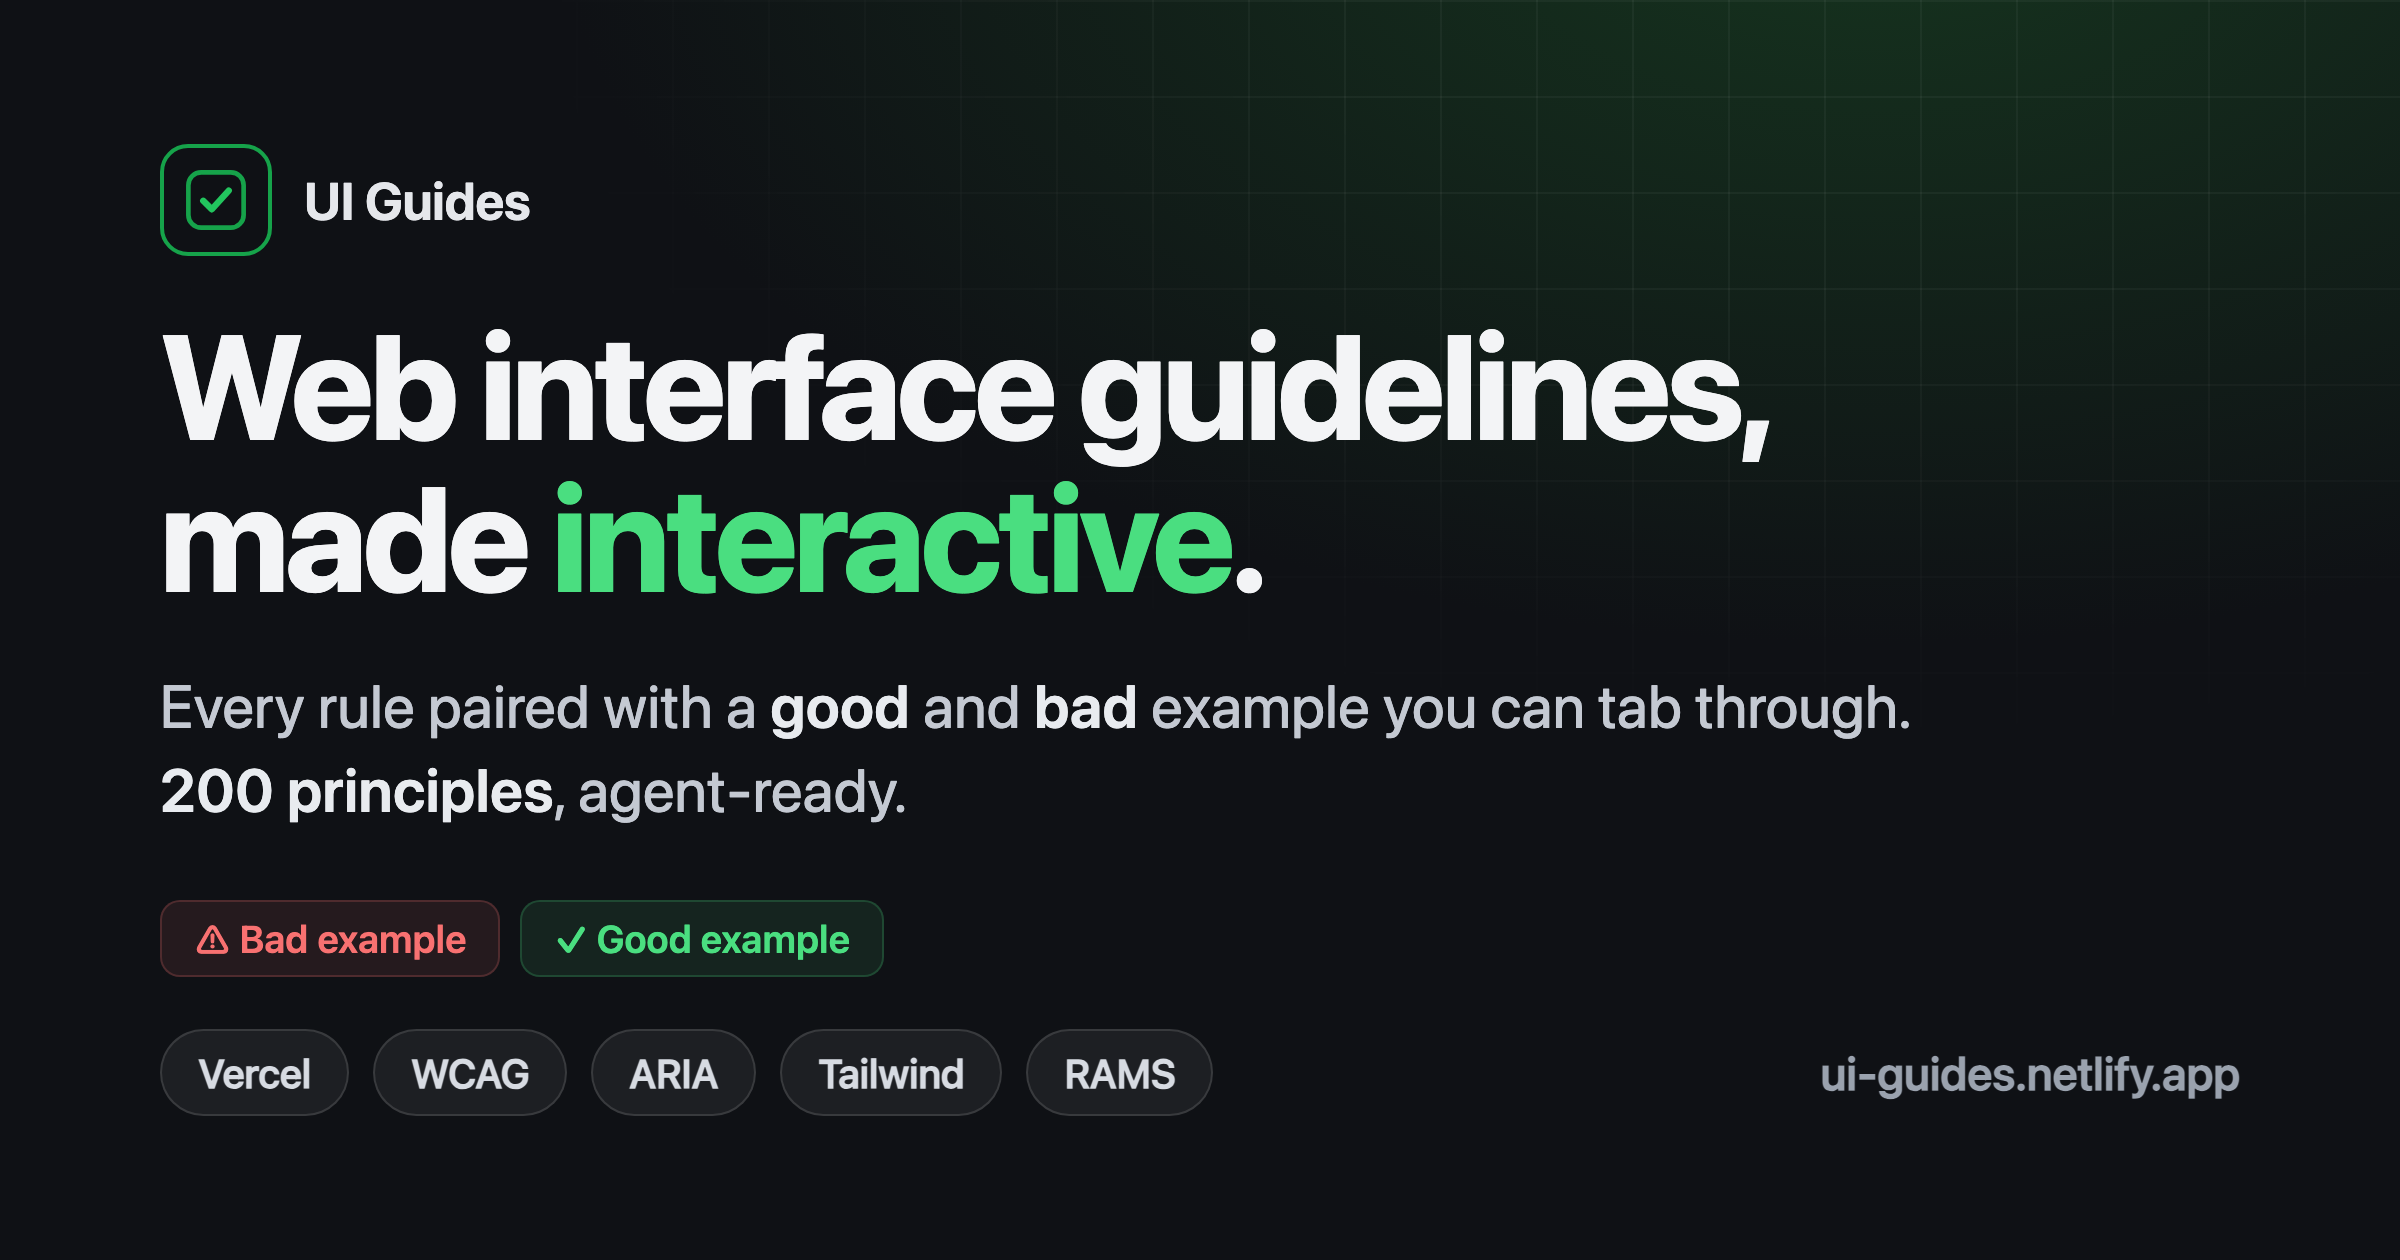
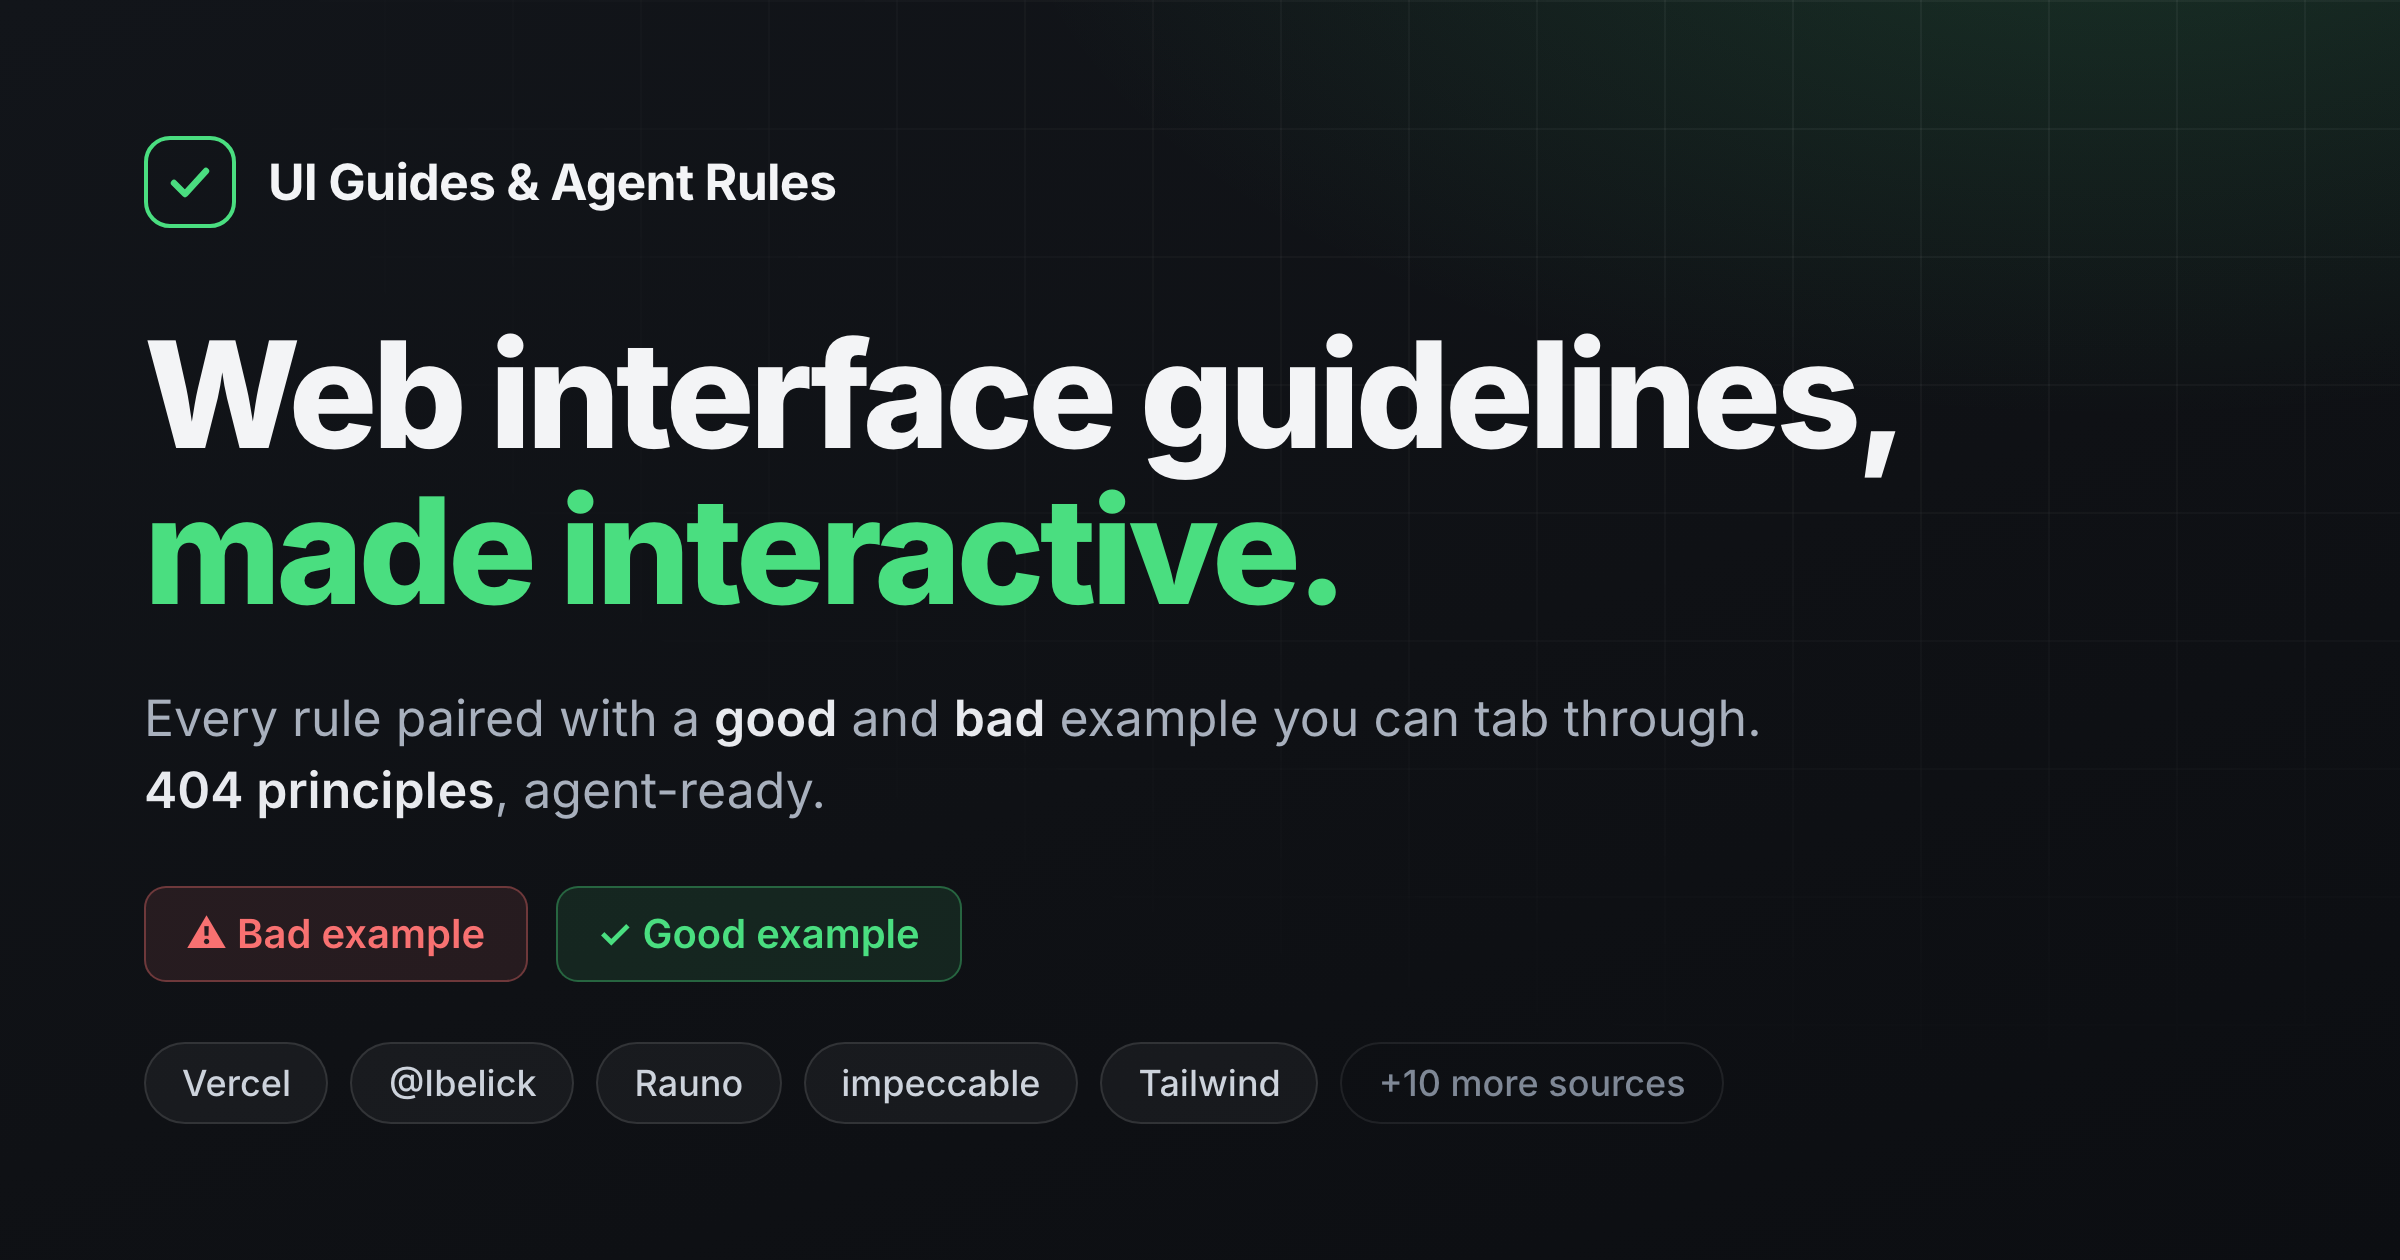
docs(readme): lead with a real demo video, generate the OG card from data
The README's only image was the OG card — a static poster for a project
whose whole claim is "examples you can operate". Replace it with a
recorded, keyboard-only walkthrough of two principles:

  - Keyboard Works Everywhere: focus leaps over the bad card entirely,
    because its menu items are divs with nothing to land on.
  - Clear Focus: both cards take focus, but only the good one shows a ring.

Encoded as H.264 + VP9 with a poster, served from public/media/ so the
host sends a real video content-type (raw.githubusercontent.com sends
octet-stream and will not play).

The OG card was hand-made and had drifted: it advertised 200 principles
against a corpus of 404, and pointed at ui-guides.netlify.app, which is
not where the site lives. scripts/generate-og.ts now renders it from the
same modules that feed generate-llms.ts, so the count and the source
list cannot go stale again. The URL is gone from the artwork entirely —
the share already carries the link.

generate:og stays out of prebuild on purpose: it drives headless
Chromium, which is not guaranteed on a deploy runner.

Also corrects the README's contributor instructions, which pointed at
content/principles/ as MDX — that layer was removed and src/data/
principles/ is the sole source of truth — and adds a section on reusing
the corpus, including the ~150k-token size that makes pasting it into a
system prompt a bad idea.

diff --git a/scripts/generate-og.ts b/scripts/generate-og.ts
@@ -1,0 +1,161 @@
+#!/usr/bin/env npx tsx
+/**
+ * Generate public/og-image.png from the principle data.
+ *
+ * The card used to be a hand-made asset, so it drifted: it advertised "200
+ * principles" against a corpus of 400+, and a domain the site does not live
+ * on. Everything factual here is now derived from the same modules that feed
+ * generate-llms.ts, so the number cannot go stale again.
+ *
+ * Renders at 1200x630 CSS px with deviceScaleFactor 2 -> 2400x1260, matching
+ * the dimensions declared in index.html's og:image:width/height.
+ */
+
+import { mkdirSync } from 'fs';
+import { join } from 'path';
+import { fileURLToPath } from 'url';
+import { chromium } from '@playwright/test';
+import { principles } from '../src/data/principles';
+import { sourceRegistry } from '../src/components/source-registry';
+
+const PUBLIC_DIR = join(fileURLToPath(new URL('.', import.meta.url)), '..', 'public');
+
+const published = principles.filter((p) => p.status !== 'draft');
+
+// Upstream sources only — 'custom' is our own phrasing, not a source to credit.
+const counts = new Map<string, number>();
+for (const p of published) {
+  if (!p.source || p.source === 'custom') continue;
+  counts.set(p.source, (counts.get(p.source) ?? 0) + 1);
+}
+
+const ranked = [...counts.entries()].sort((a, b) => b[1] - a[1]);
+
+// Show the names a reader recognizes at a glance, in corpus order; the rest
+// become a truthful "+N more" so the card never overstates its coverage.
+const SHOWN = 5;
+const chips = ranked.slice(0, SHOWN).map(([id]) => {
+  const info = sourceRegistry[id as keyof typeof sourceRegistry];
+  return info?.name ?? id;
+});
+const remaining = ranked.length - chips.length;
+
+const html = `
+<style>
+  * { margin: 0; padding: 0; box-sizing: border-box; }
+  body {
+    width: 1200px; height: 630px; overflow: hidden;
+    font-family: Inter, -apple-system, system-ui, sans-serif;
+    background: #0f1115; color: #f3f4f6;
+    -webkit-font-smoothing: antialiased;
+  }
+  .card {
+    position: relative; width: 100%; height: 100%;
+    padding: 68px 72px; display: flex; flex-direction: column;
+    background:
+      radial-gradient(900px 460px at 88% -12%, rgba(74,222,128,0.16), transparent 62%),
+      linear-gradient(160deg, #12151a 0%, #0f1115 55%, #0c0e12 100%);
+  }
+  /* faint grid, fading out toward the bottom-left so it never fights the text */
+  .grid {
+    position: absolute; inset: 0;
+    background-image:
+      linear-gradient(rgba(255,255,255,0.045) 1px, transparent 1px),
+      linear-gradient(90deg, rgba(255,255,255,0.045) 1px, transparent 1px);
+    background-size: 64px 64px;
+    -webkit-mask-image: radial-gradient(1100px 700px at 82% 0%, #000 10%, transparent 78%);
+            mask-image: radial-gradient(1100px 700px at 82% 0%, #000 10%, transparent 78%);
+  }
+  .inner { position: relative; display: flex; flex-direction: column; height: 100%; }
+
+  .brand { display: flex; align-items: center; gap: 16px; margin-bottom: 44px; }
+  .mark {
+    width: 46px; height: 46px; border-radius: 13px;
+    border: 2.5px solid #4ade80; display: flex; align-items: center; justify-content: center;
+  }
+  .brand-name { font-size: 25px; font-weight: 700; letter-spacing: -0.015em; }
+
+  h1 {
+    font-size: 74px; line-height: 1.06; font-weight: 800;
+    letter-spacing: -0.033em; margin-bottom: 26px;
+  }
+  h1 .accent { color: #4ade80; }
+
+  .sub {
+    font-size: 25px; line-height: 1.45; color: #a8b0bd;
+    font-weight: 400; max-width: 880px;
+  }
+  .sub strong { color: #e8eaee; font-weight: 600; }
+
+  .spacer { flex: 1; }
+
+  .pills { display: flex; gap: 14px; margin-bottom: 30px; }
+  .pill {
+    display: flex; align-items: center; gap: 9px;
+    padding: 11px 20px; border-radius: 11px;
+    font-size: 20px; font-weight: 600;
+  }
+  .pill.bad  { color: #f87171; background: rgba(248,113,113,0.10); border: 1.5px solid rgba(248,113,113,0.34); }
+  .pill.good { color: #4ade80; background: rgba(74,222,128,0.10);  border: 1.5px solid rgba(74,222,128,0.34); }
+
+  .chips { display: flex; align-items: center; gap: 11px; flex-wrap: wrap; }
+  .chip {
+    padding: 9px 18px; border-radius: 999px;
+    font-size: 18px; font-weight: 500; color: #cdd3dc;
+    background: rgba(255,255,255,0.045); border: 1px solid rgba(255,255,255,0.11);
+  }
+  .chip.more { color: #7f8896; background: none; border-color: rgba(255,255,255,0.08); }
+</style>
+
+<div class="card">
+  <div class="grid"></div>
+  <div class="inner">
+    <div class="brand">
+      <div class="mark">
+        <svg width="24" height="24" viewBox="0 0 24 24" fill="none"
+             stroke="#4ade80" stroke-width="3.2" stroke-linecap="round" stroke-linejoin="round">
+          <polyline points="4,12.5 9.5,18 20,6.5" />
+        </svg>
+      </div>
+      <div class="brand-name">UI Guides &amp; Agent Rules</div>
+    </div>
+
+    <h1>Web interface guidelines,<br /><span class="accent">made interactive.</span></h1>
+
+    <div class="sub">
+      Every rule paired with a <strong>good</strong> and <strong>bad</strong> example you can tab through.<br />
+      <strong>${published.length} principles</strong>, agent-ready.
+    </div>
+
+    <div class="spacer"></div>
+
+    <div class="pills">
+      <div class="pill bad">&#9888; Bad example</div>
+      <div class="pill good">&#10003; Good example</div>
+    </div>
+
+    <div class="chips">
+      ${chips.map((c) => `<div class="chip">${c}</div>`).join('\n      ')}
+      ${remaining > 0 ? `<div class="chip more">+${remaining} more sources</div>` : ''}
+    </div>
+  </div>
+</div>
+`;
+
+mkdirSync(PUBLIC_DIR, { recursive: true });
+
+const browser = await chromium.launch();
+const page = await browser.newPage({
+  viewport: { width: 1200, height: 630 },
+  deviceScaleFactor: 2,
+});
+await page.setContent(html);
+// Inter is a local system font; without this the shot can land mid-swap.
+await page.evaluate(() => document.fonts.ready);
+await page.screenshot({ path: join(PUBLIC_DIR, 'og-image.png') });
+await browser.close();
+
+console.log(
+  `og-image.png — ${published.length} principles, ${ranked.length} upstream sources ` +
+    `(showing ${chips.join(', ')}${remaining > 0 ? `, +${remaining}` : ''})`
+);

diff --git a/README.md b/README.md
@@ -4,7 +4,13 @@ Web UI principles, made interactive. Every rule paired with a **good** and **bad
 
 **→ [ui-guides-agent-rules.netlify.app](https://ui-guides-agent-rules.netlify.app)**
 
-![UI Guides — web interface guidelines, made interactive](./public/og-image.png)
+<video
+  src="https://ui-guides-agent-rules.netlify.app/media/keyboard-demo.mp4"
+  poster="https://ui-guides-agent-rules.netlify.app/media/keyboard-demo-poster.jpg"
+  controls muted loop playsinline
+  width="900"></video>
+
+<sup>Two principles, keyboard only. On **Keyboard Works Everywhere** focus leaps straight over the bad card — its menu items are `div`s, so there is nothing to land on. On **Clear Focus** both cards take focus, but only the good one tells you where you are.</sup>
 
 ## What it is
 
@@ -16,23 +22,54 @@ Web UI principles, made interactive. Every rule paired with a **good** and **bad
 2. **A `MUST` / `SHOULD` / `NEVER` rule** an agent can paste straight into its context.
 3. **A link back to where it came from**, so credit stays attached to the rule.
 
-300+ principles across eight categories — interactions, animations, layout, content, forms, performance, design, aesthetics. Search, filter by source or tag, deep-link to any rule.
+404 principles across eight categories — interactions, animations, layout, content, forms, performance, design, aesthetics — drawn from 15 upstream sources. Search, filter by source or tag, deep-link to any rule.
 
 **To use it:** point a coding agent at [`llms-full.txt`](https://ui-guides-agent-rules.netlify.app/llms-full.txt) — the whole corpus as plain text, no JavaScript required.
 
 ## What's inside
 
-- **300+ principles**, each with a side-by-side good/bad example you can operate — not screenshots, real components.
+- **404 principles**, each with a side-by-side good/bad example you can operate — not screenshots, real components.
 - **Multi-source and attributed.** Every rule is tagged with the upstream project it came from, filterable by origin, and credited on the Sources page.
 - **Agent-ready rules.** Every principle carries a `MUST` / `SHOULD` / `NEVER` rule with a code snippet, written to be copy-pasted straight into a coding agent's context. One click to copy.
 - **Fetchable by agents.** The whole corpus is published as [`llms-full.txt`](https://ui-guides-agent-rules.netlify.app/llms-full.txt) — plain text, no JavaScript, generated from the principle data at build time. Point a coding agent at it directly.
 - **Keyboard-first, accessible, themed.** The guide practices what it documents: visible focus rings, focus traps, hit targets, `prefers-reduced-motion`, light/dark, dynamic page titles.
 
+## Use the rules in your own project
+
+The rules are free to take. There's no package to install — the corpus is one plain-text file.
+
+**Give your agent the URL.** The simplest setup, and the one to start with. Add a line to your `CLAUDE.md`, `AGENTS.md`, or Cursor rules:
+
+```md
+When writing or reviewing UI code, follow the interface rules at
+https://ui-guides-agent-rules.netlify.app/llms-full.txt
+```
+
+Your agent fetches it when it needs it. Nothing gets stored in your repo, and you get updates for free.
+
+**Or vendor a copy** if you want the rules pinned and offline:
+
+```bash
+curl -o .agent/ui-rules.md https://ui-guides-agent-rules.netlify.app/llms-full.txt
+```
+
+**Watch the size.** The full corpus is ~590 KB, roughly 150k tokens. That's a large chunk of a context window, so don't paste the whole thing into a system prompt. Let the agent fetch it on demand, or take just the slice you need — the file is organized by `## Category` headings (Interactions, Animations, Layout, Content, Forms, Performance, Design, Aesthetics):
+
+```bash
+# just the forms rules
+curl -s https://ui-guides-agent-rules.netlify.app/llms-full.txt \
+  | awk '/^## Forms$/,/^## Performance$/'
+```
+
+**Or take one rule.** Every principle on the site has a **Copy Rule** button that yields a single `MUST` / `SHOULD` / `NEVER` line with its code snippet — useful when you're fixing one thing and don't want to reshape the agent's whole context.
+
+Each rule carries the upstream project it came from. If you cite one, credit that source, not this repo.
+
 ## Built with
 
-React 18 · TypeScript (strict) · Vite · Tailwind v4 · MDX · Radix UI + shadcn/ui · Motion · HugeIcons
+React 18 · TypeScript (strict) · Vite · Tailwind v4 · Radix UI + shadcn/ui · Motion · HugeIcons
 
-Principles live as MDX in `content/principles/`. Example components auto-discover from `src/components/examples/` via `import.meta.glob` — drop a `NameGood.tsx` / `NameBad.tsx` in the right folder and it wires itself up. See [`CLAUDE.md`](./CLAUDE.md) for the full architecture.
+Principles live as TypeScript in `src/data/principles/`, one module per category. Example components auto-discover from `src/components/examples/` via `import.meta.glob` — drop a `NameGood.tsx` / `NameBad.tsx` in the right folder and it wires itself up. See [`CLAUDE.md`](./CLAUDE.md) for the full architecture.
 
 ## Run it
 
@@ -43,7 +80,10 @@ npm run build        # production build → dist/
 npm run typecheck    # tsc, strict
 npm run lint         # eslint
 npm test             # vitest
+npm run generate:og  # redraw public/og-image.png from the principle data
 ```
+
+`generate:og` is deliberately not part of `prebuild` — it drives headless Chromium, which isn't guaranteed on a deploy runner. Run it locally whenever the corpus grows and commit the PNG.
 
 ## Credits
 